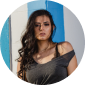
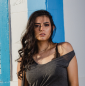
Update

diff --git a/src/sass/components/_customer-review.scss b/src/sass/components/_customer-review.scss
@@ -11,6 +11,7 @@
 }
 .feedback__image {
     margin: auto;
+    border-radius: 50%;
 }
 .feedback__wrapper {
     background: $firstBlockColor;

diff --git a/src/sass/index.css b/src/sass/index.css
@@ -84,6 +84,7 @@ header {
 
 .feedback__image {
   margin: auto;
+  border-radius: 50%;
 }
 
 .feedback__wrapper {
